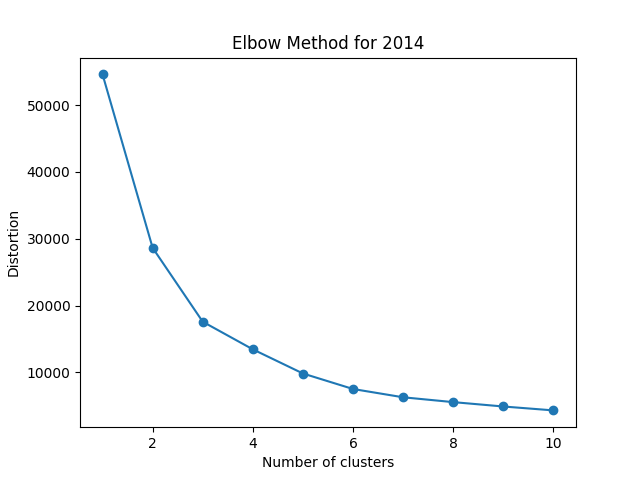
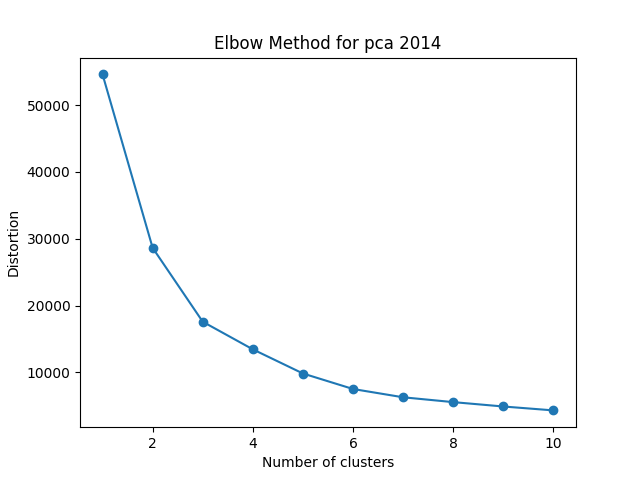
switches

Changed region(s): [[0.3125, 0.0625, 0.6875, 0.125]]

diff --git a/HW/HW4/SmithEvanEE4331HW4/Part1/hw4-part1.py b/HW/HW4/SmithEvanEE4331HW4/Part1/hw4-part1.py
@@ -260,27 +260,27 @@ print("done.")
 print("plotting elbows...")
 ##########################################################################################################################
 
-plot_elbow_method(distortions_2011, 'Elbow Method for 2011', elbow_file_path_2011)
+plot_elbow_method(distortions_2011, 'Elbow Method for pca 2011', elbow_file_path_2011)
 k_elbow = KneeLocator(x=range(1, 11), y=distortions_2011, curve='convex', direction='decreasing')
 print("The optimal number of clusters is", k_elbow.elbow)
 n_clusters_2011 = k_elbow.elbow
 
-plot_elbow_method(distortions_2012, 'Elbow Method for 2012', elbow_file_path_2012)
+plot_elbow_method(distortions_2012, 'Elbow Method for pca 2012', elbow_file_path_2012)
 k_elbow = KneeLocator(x=range(1, 11), y=distortions_2012, curve='convex', direction='decreasing')
 print("The optimal number of clusters is", k_elbow.elbow)
 n_clusters_2012 = k_elbow.elbow
 
-plot_elbow_method(distortions_2013, 'Elbow Method for 2013', elbow_file_path_2013)
+plot_elbow_method(distortions_2013, 'Elbow Method for pca 2013', elbow_file_path_2013)
 k_elbow = KneeLocator(x=range(1, 11), y=distortions_2013, curve='convex', direction='decreasing')
 print("The optimal number of clusters is", k_elbow.elbow)
 n_clusters_2013 = k_elbow.elbow
 
-plot_elbow_method(distortions_2014, 'Elbow Method for 2014', elbow_file_path_2014)
+plot_elbow_method(distortions_2014, 'Elbow Method for pca 2014', elbow_file_path_2014)
 k_elbow = KneeLocator(x=range(1, 11), y=distortions_2014, curve='convex', direction='decreasing')
 print("The optimal number of clusters is", k_elbow.elbow)
 n_clusters_2014 = k_elbow.elbow
 
-plot_elbow_method(distortions_2015, 'Elbow Method for 2015', elbow_file_path_2015)
+plot_elbow_method(distortions_2015, 'Elbow Method for pca 2015', elbow_file_path_2015)
 k_elbow = KneeLocator(x=range(1, 11), y=distortions_2015, curve='convex', direction='decreasing')
 print("The optimal number of clusters is", k_elbow.elbow)
 n_clusters_2015 = k_elbow.elbow
@@ -291,11 +291,11 @@ print("done.")
 print("plotting clusters...")
 ##########################################################################################################################
 
-plot_clusters(X_2011_pca, n_clusters_2011, clusters_file_path_2011, 'Clusters for 2011')
-plot_clusters(X_2012_pca, n_clusters_2012, clusters_file_path_2012, 'Clusters for 2012')
-plot_clusters(X_2013_pca, n_clusters_2013, clusters_file_path_2013, 'Clusters for 2013')
-plot_clusters(X_2014_pca, n_clusters_2014, clusters_file_path_2014, 'Clusters for 2014')
-plot_clusters(X_2015_pca, n_clusters_2015, clusters_file_path_2015, 'Clusters for 2015')
+plot_clusters(X_2011_pca, n_clusters_2011, clusters_file_path_2011, 'Clusters for pca 2011')
+plot_clusters(X_2012_pca, n_clusters_2012, clusters_file_path_2012, 'Clusters for pca 2012')
+plot_clusters(X_2013_pca, n_clusters_2013, clusters_file_path_2013, 'Clusters for pca 2013')
+plot_clusters(X_2014_pca, n_clusters_2014, clusters_file_path_2014, 'Clusters for pca 2014')
+plot_clusters(X_2015_pca, n_clusters_2015, clusters_file_path_2015, 'Clusters for pca 2015')
 
 ##########################################################################################################################
 print("done.")
@@ -303,11 +303,11 @@ print("done.")
 print("plotting silhouettes...")
 ##########################################################################################################################
 
-plot_silhouette(X_2011_pca, n_clusters_2011, silhouettes_file_path_2011, 'Silhouette for 2011')
-plot_silhouette(X_2012_pca, n_clusters_2012, silhouettes_file_path_2012, 'Silhouette for 2012')
-plot_silhouette(X_2013_pca, n_clusters_2013, silhouettes_file_path_2013, 'Silhouette for 2013')
-plot_silhouette(X_2014_pca, n_clusters_2014, silhouettes_file_path_2014, 'Silhouette for 2014')
-plot_silhouette(X_2015_pca, n_clusters_2015, silhouettes_file_path_2015, 'Silhouette for 2015')
+plot_silhouette(X_2011_pca, n_clusters_2011, silhouettes_file_path_2011, 'Silhouette for pca 2011')
+plot_silhouette(X_2012_pca, n_clusters_2012, silhouettes_file_path_2012, 'Silhouette for pca 2012')
+plot_silhouette(X_2013_pca, n_clusters_2013, silhouettes_file_path_2013, 'Silhouette for pca 2013')
+plot_silhouette(X_2014_pca, n_clusters_2014, silhouettes_file_path_2014, 'Silhouette for pca 2014')
+plot_silhouette(X_2015_pca, n_clusters_2015, silhouettes_file_path_2015, 'Silhouette for pca 2015')
 
 ##########################################################################################################################
 print("done.")

diff --git a/HW/HW4/SmithEvanEE4331HW4/Part2/hw4-part2.py b/HW/HW4/SmithEvanEE4331HW4/Part2/hw4-part2.py
@@ -236,7 +236,7 @@ print("done.")
 print("plotting elbows...")
 ##########################################################################################################################
 
-plot_elbow_method(distortions_all, 'Elbow Method for all', elbow_file_path_all)
+plot_elbow_method(distortions_all, 'Elbow Method for all pca', elbow_file_path_all)
 k_elbow = KneeLocator(x=range(1, 11), y=distortions_all, curve='convex', direction='decreasing')
 print("The optimal number of clusters is", k_elbow.elbow)
 n_clusters_all = k_elbow.elbow
@@ -247,7 +247,7 @@ print("done.")
 print("plotting clusters...")
 ##########################################################################################################################
 
-plot_clusters(X_all_pca, n_clusters_all, clusters_file_path_all, 'Clusters for all')
+plot_clusters(X_all_pca, n_clusters_all, clusters_file_path_all, 'Clusters for pca all')
 
 ##########################################################################################################################
 print("done.")
@@ -255,7 +255,7 @@ print("done.")
 print("plotting silhouettes...")
 ##########################################################################################################################
 
-plot_silhouette(X_all_pca, n_clusters_all, silhouettes_file_path_all, 'Silhouette for all')
+plot_silhouette(X_all_pca, n_clusters_all, silhouettes_file_path_all, 'Silhouette for pca all')
 
 ##########################################################################################################################
 print("done.")
